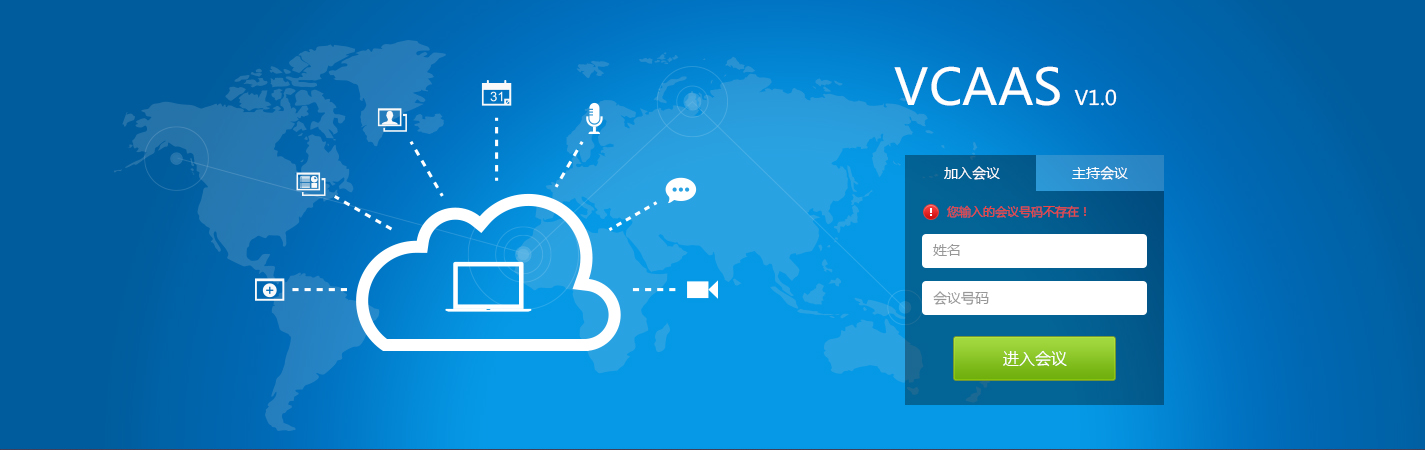
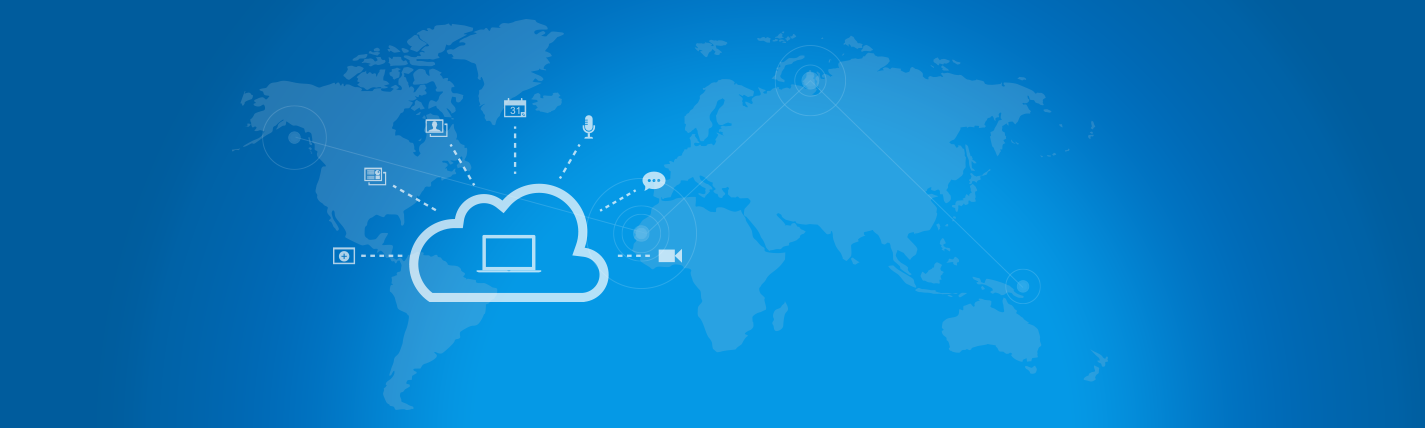
...

diff --git a/css/login.css b/css/login.css
@@ -8,15 +8,11 @@ blockquote, q { quotes: none; }
 blockquote:before, blockquote:after, q:before, q:after { content: ''; content: none; }
 table { border-collapse: collapse; border-spacing: 0; }
 html, body { font-size: 12px; background: #F7F7F7 url(../images/login/bg.png) 0 0 repeat; color: #333; font-family: STHeiti, Arial, Tahoma, Helvetica, "Microsoft Yahei", "微软雅黑", STHeiti, "宋体"; *font-family: "Microsoft Yahei", "微软雅黑", Tahoma, Arial, Helvetica, STHeiti, "宋体"; }
-select, textarea, input, option { margin: 0; padding: 0; font-size: 14px; font-family: "Microsoft Yahei", "微软雅黑", STHeiti, "宋体"; }
+select, textarea, input, option, button { margin: 0; padding: 0; font-size: 14px; font-family: inherit; *font-family: "Microsoft Yahei", "微软雅黑"; }
 :placeholder { color: #999999; }
 ::-webkit-input-placeholder { color: #999999; }
-a:link { color: #333; }
-a:visited { color: #333; }
+a:link, a:visited, a:active { color: #333; text-decoration: none; }
 a:hover { color: #4796D0; }
-a:active { color: #333; }
-h1 { color: #FFF; font-size: 50px; padding: 64px 0 40px; font-weight: normal; }
-h1 small { font-weight: small; font-size: 18px; }
 .clearfix { overflow: hidden; _zoom: 1; }
 .btn-submit { margin-top: 6px; width: 163px; height: 45px; border-radius: 3px; border: none; color: #FFF; font-size: 16px; cursor: pointer; text-align: center; background: transparent url(../images/login/submit.png) 0 0 no-repeat; }
 .form-group { margin-bottom: 13px; }
@@ -30,21 +26,26 @@ h1 small { font-weight: small; font-size: 18px; }
 #logo img { float: left; margin-right: 10px; }
 #logo span { float: left; margin-left: 10px; font-size: 20px; margin-top: 24px; }
 #header { background: #F7F7F7 url(../images/login/header.png) 0 0 repeat-x; }
-#header .message { float: right; padding: 10px 0 0 0; color: #888888; }
+#header .infomation { float: right; padding: 10px 0 0 0; width: 250px; zoom: 1; }
+#header .infomation .message { float: left; color: #999999; }
+#header .infomation .help { float: right; }
+#header .infomation ul li { float: right; }
+#header .infomation ul li a { color: #2677BD; }
+#header .infomation ul li .divider { padding: 0 8px; }
+#header .infomation select { background: #FFFFFF; width: 90px; height: 24px; font-size: 12px; float: right; margin-top: 5px; }
 #header .wrapper, #content .wrapper .box, #footer .wrapper { max-width: 960px; margin: 0 auto; _width: 960px; }
-#header .wrapper { height: 65px; }
+#header .wrapper { height: 80px; }
 #content { background: transparent url(../images/login/banner-bg.png) 0 0 repeat-x; }
-/* #content .wrapper { background: transparent url(../images/login/banner.png) center top no-repeat; }
-*/
-#content .wrapper .login-module { height: 450px; }
-#content .wrapper .login-module .pull-right { width: 260px; float: right; padding-right: 30px; }
-#content .wrapper .form { position: relative; width: 260px; padding: 40px 0 15px; background: transparent url(../images/login/form-bg.png) 0 0 repeat; }
-#content .wrapper .form .error { color: #EF4643; position: absolute; top: 15px; left: 17px; line-height: 16px;}
-#content .wrapper .form .error .icon {display: inline-block;width: 16px;height: 16px;_display: inline;background: transparent url(../images/login/error.png) 0 0 no-repeat;vertical-align: middle;margin-right: 5px;}
+#content .wrapper { background: transparent url(../images/login/banner.png) center top no-repeat; }
+#content .wrapper .login-module { height: 428px; }
+#content .wrapper .login-module .pull-right { width: 260px; float: right; padding: 80px 30px 0 0; }
+#content .wrapper .form { position: relative; width: 260px; height: 150px; padding: 60px 0 15px; background: transparent url(../images/login/form-bg.png) 0 0 repeat; }
+#content .wrapper .form .error { color: #EF4643; position: absolute; top: 35px; left: 17px; line-height: 16px; }
+#content .wrapper .form .error .icon { display: inline-block; width: 16px; height: 16px; _display: inline; background: transparent url(../images/login/error.png) 0 0 no-repeat; vertical-align: middle; margin-right: 5px; }
 #content .wrapper .items { padding-top: 30px; color: #666; }
 #content .wrapper .items li { float: left; width: 239px; text-align: center; border-right: 1px solid #CECECE; }
 #content .wrapper .items li.last-child { border-right: none; }
-#content .wrapper .items h3 { font-weight: bold; font-size: 20px; margin-top: 25px; }
+#content .wrapper .items h3 { font-weight: normal; font-size: 20px; margin-top: 25px; color: #2677BD; }
 #content .wrapper .items p { padding: 0 25px; font-size: 13px; text-align: left; line-height: 24px; margin-top: 15px; color: #888; }
 #footer { background: #444444; margin-top: 60px; }
 #footer .wrapper { color: #999999; text-align: center; line-height: 18px; padding: 8px 0 5px; }

diff --git a/index.html b/index.html
@@ -23,9 +23,21 @@
       <div class="wrapper">
         <a href="" id="logo">
           <img src="images/login/logo.png" alt="logo" />
-          <span>上海会畅视频云系统</span>
+          <img src="images/login/brand.png" alt="brand" />
         </a>
-        <span class="message">客服热线：400 082 6161</span>
+        <div class="infomation">
+          <span class="message">客服热线：400 082 6161</span>
+          <div class="help">
+            <ul class="clearfix">
+              <li><a href="">帮助</a></li>
+              <li><a class="divider">|</a></li>
+              <li><a href="">下载中心</a></li>
+            </ul>
+            <select>
+              <option>简体中文</option>
+            </select>
+          </div>
+        </div>
       </div>
     </div>
 
@@ -34,7 +46,6 @@
         <div class="box">
           <div class="login-module">
             <div class="pull-right">
-              <h1>VCAAS <small>V1.0</small></h1>
               <div class="tabset">
                 <ul class="tabs clearfix">
                   <li class="active"><a href="#join">加入会议</a></li>
@@ -43,27 +54,25 @@
                 <div class="tab-content">
                   <div class="tab-pane active" id="join">
                     <form class="form">
-                      <div class="error"><i class="icon"></i>您输入的会议号码不存在</div>
+                      <div class="error"><i class="icon"></i>您输入的会议号码不存在！</div>
                       <div class="form-group">
-                        <input type="text" class="form-control" placeholder="姓名" />
+                        <input type="text" class="form-control" placeholder="会议号码" />
                       </div>
-                      <div class="form-group">
-                        <input type="password" class="form-control" placeholder="会议号码" />
-                      </div>
-                      <div class="form-group">
+                      <div class="form-group submit-group">
                         <center><button type="submit" class="btn-submit">进入会议</button></center>
                       </div>
                     </form>
                   </div>
                   <div class="tab-pane" id="conduct">
                     <form class="form">
+                      <div class="error"><i class="icon"></i>您输入的密码错误！</div>
                       <div class="form-group">
                         <input type="text" class="form-control" placeholder="姓名" />
                       </div>
                       <div class="form-group">
-                        <input type="password" class="form-control" placeholder="会议号码" />
+                        <input type="password" class="form-control" placeholder="密码" />
                       </div>
-                      <div class="form-group">
+                      <div class="form-group submit-group">
                         <center><button type="submit" class="btn-submit">进入会议</button></center>
                       </div>
                     </form>
